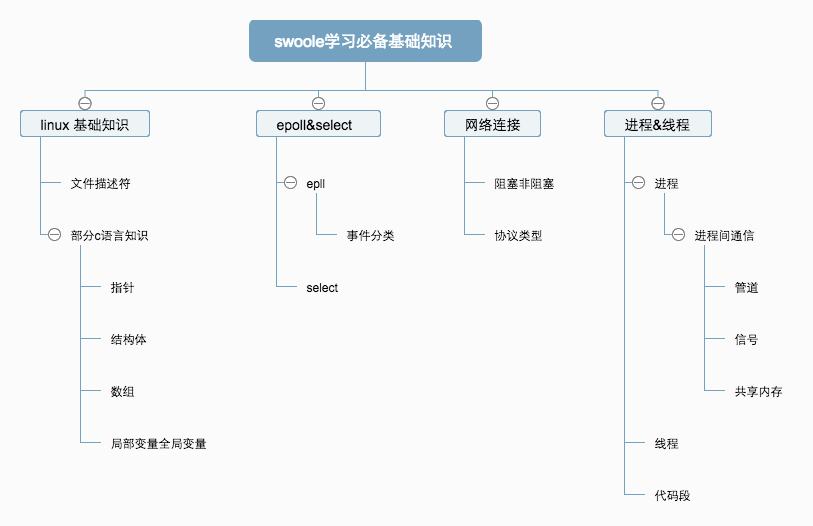
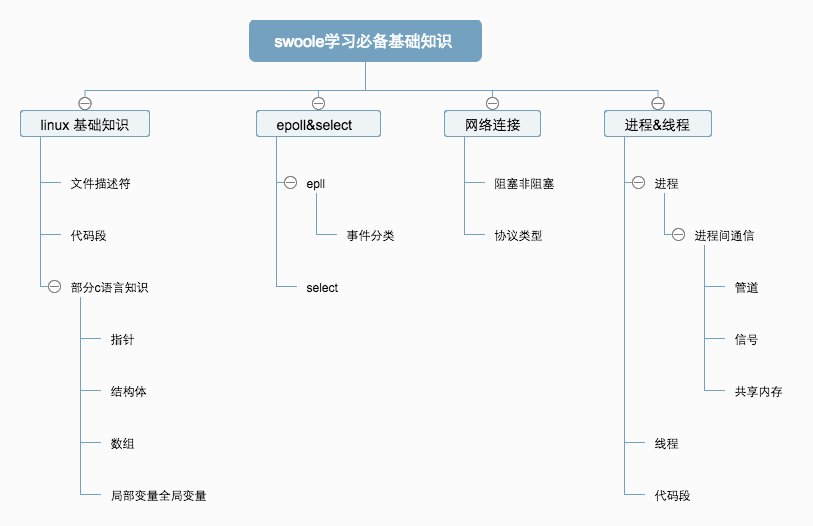
1.基础知识

diff --git a/append/F3_基础知识.md b/append/F3_基础知识.md
@@ -8,8 +8,52 @@
 
 ### 描述符
 
-* 在linux系的系统中一切皆文件(文件描述符).所有的操作就是cpu在各种文件描述符间不断切换处理.切换之后后的epoll和select中讲解.
+* 在linux系的系统中一切皆文件(文件描述符).所有的操作就是cpu在各种文件描述符间不断切换处理.切换之后会在epoll和select中讲解.
+
+### 代码段
+
+* 代码段:是程序执行的基本单位,之后的进程和线程都是,将部分代码段拿来执行,进程成是整个复制而线程是将部分代码段执行.
 
 ### c语言基础
 
-* 指针:最简单,但是最难理解的知识.
+* 指针:最简单,但是最难理解的知识.各自领悟吧.
+
+* 结构体:是整个代码的利器,在c语言中没有面向对象,所以结构体担起了对应的责任.
+
+* 数组:数组经常和指针相关,数组遍历,首地址代表数组 等等.
+
+* 全局变量和局部变量:变量的作用域在c语言中也是特别重要的,很可能因为作用的问题产生bug.
+
+### epoll&select
+
+* select:select 就用到上面的知识,程序一般都是顺序阻塞的,为了实现非阻塞就用到了select,主要功能监控一堆集合中的文件描述符的可用情况,并返回可读或者可写的文件描述符,集合就是用结构体实现,采用的是轮训的形式检测.
+
+* epoll:用轮训的方式检测描述符,效率太低,这个时候就用到了epoll.epoll采用的是事件监控的方式,当有事件产生便返回事件相关信息和描述符,这样大大的节省了cup不停检测这些描述符.
+
+### 网络连接
+
+## 网络协议
+
+* 做网络程序必须能联网,联网就需要协议,tcp udp http stmp 等等.都是针对不同的使用场景对应的协议,每个协议都对数据包就行了定义.具体参照各个协议.想了记住这些协议内容也是一件费时费力的工作.
+
+## 阻塞和非阻塞
+
+* select 中已经说了为了提高程序并发,就产生了非阻塞,可以监控多个链接描述符,使多个客户端可主机进行相应.一般采取epoll就行监控时间.tiny中就是这样实现的.
+
+### 进程&线程
+
+* 进程:就是一个执行中的代码段的集合,进程又分父进程和子进程.子进程就是父进程的整体代码段拷贝,他通过fork函数就行分割,在父进程中fork返回子进程id,而在子进程中返回0.
+
+#### 进程间通信
+
+* 用到了进程就必须要讲讲,进程间通信.为了实现多任务工作,必须就要实现进程间通信,单独进程是没法知道任务进度.
+
+** 管道:主要的进程间沟通的工作,管道是一个双向的读写结构,它有一个读端和一个写端,当在读端写入时,就可以成写端读出,反之亦然.work 进程就是这样和主进程的react线程沟通的.
+
+** 信号:信号主要是在某些特殊信号发出的时候做某些功能.
+
+** 共享内存:进程间同过共享内存,共享数据,swoole的table就是这样实现的.
+
+* 线程:就是在当前进程中创建一个单独运行的代码段和父进程公用数据空间.
+
+以上便是所有必备知识的简单介绍,详细内容还是要逐个学习的.内容庞大大家共勉.(有不对的地方还望指出)
